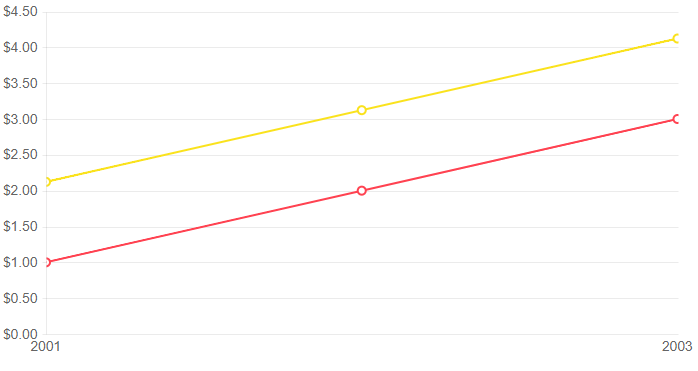
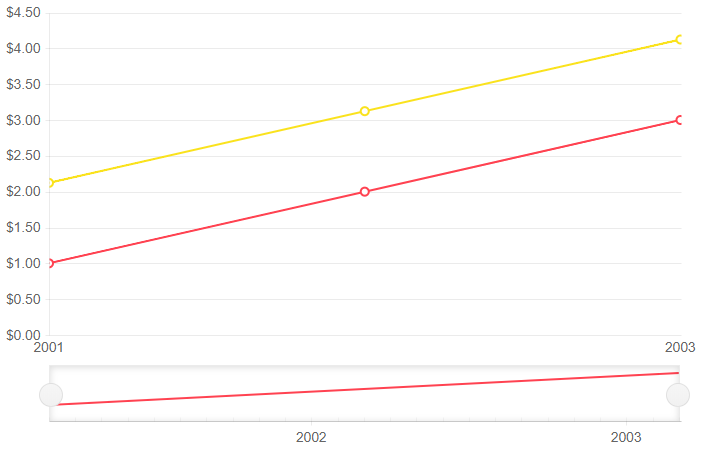
chore(stockchart): added navigator to line chart article

diff --git a/components/stockchart/types/line.md b/components/stockchart/types/line.md
@@ -54,6 +54,17 @@ Line series
         </StockChartSeries>
     </StockChartSeriesItems>
 
+    <StockChartNavigator>
+        <StockChartNavigatorSeriesItems>
+            <StockChartNavigatorSeries Type="StockChartSeriesType.Line"
+                                       Name="Product 1"
+                                       Data="@Data"
+                                       Field="@(nameof(ChartSeriesData.Product1Sales))"
+                                       CategoryField="@(nameof(ChartSeriesData.Year))">
+            </StockChartNavigatorSeries>
+        </StockChartNavigatorSeriesItems>
+    </StockChartNavigator>
+
 </TelerikStockChart>
 
 @code {
